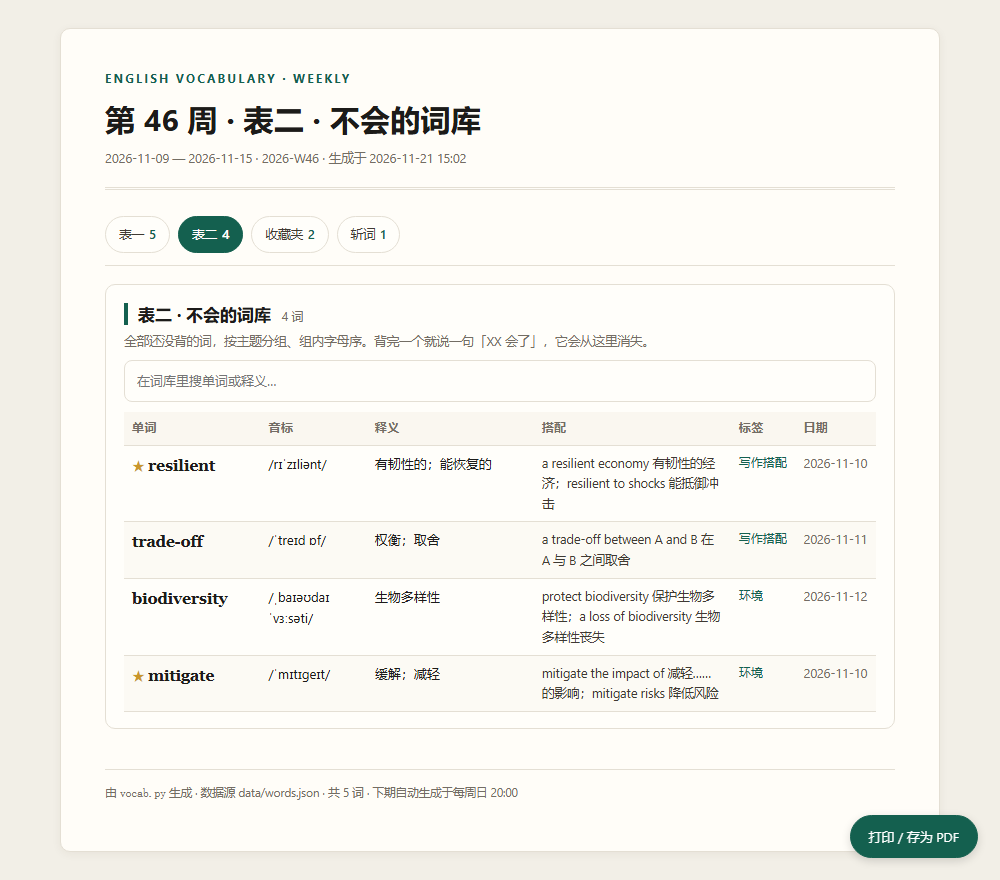
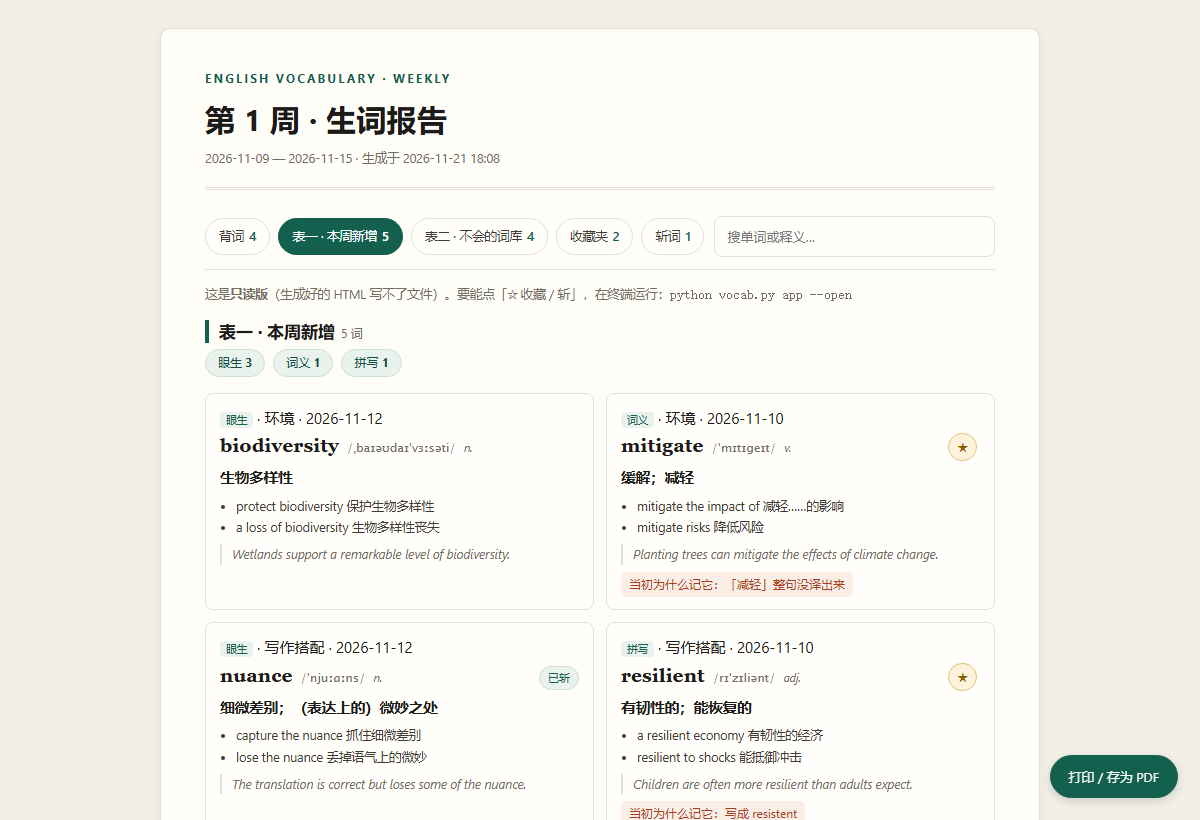
docs: 更新截图（遮挡模式 + 错因分布）；app 支持 --week 与 #深链
- preview.png：背词页，遮挡卡片，带 kind 徽标与两个按钮
- preview-report.png：表一视图，带错因分布
- 示例数据补上 kind
- app 新增 --week，页面支持 #t1 之类深链

diff --git a/vocab.py b/vocab.py
@@ -774,6 +774,10 @@ document.addEventListener('keydown', e => {
   }
 });
 
+if (location.hash) {
+  const name = location.hash.slice(1);
+  if (document.querySelector('.panel[data-panel="' + name + '"]')) show(name);
+}
 setInterval(() => { fetch('/ping').catch(() => {}); }, 60000);
 filter();
 """
@@ -1201,6 +1205,7 @@ def cmd_review(args) -> int:
     import threading
     from http.server import BaseHTTPRequestHandler, ThreadingHTTPServer
 
+    monday = parse_week(args.week) if getattr(args, "week", None) else week_monday(date.today())
     lock = threading.Lock()
     last = {"t": _time.time()}
     data = load()
@@ -1238,7 +1243,7 @@ def cmd_review(args) -> int:
             if self.path.split("?")[0] not in ("/", "/index.html"):
                 return self._send(404, b"not found", "text/plain; charset=utf-8")
             with lock:
-                page = render_app(load(), week_monday(date.today()), interactive=True)
+                page = render_app(load(), monday, interactive=True)
             return self._send(200, page.encode("utf-8"), "text/html; charset=utf-8")
 
         def do_POST(self):
@@ -1392,6 +1397,7 @@ def build_parser() -> argparse.ArgumentParser:
                         aliases=["app"])
     rv.add_argument("--port", type=int, default=8765, help="端口，默认 8765，占用则自动顺延")
     rv.add_argument("--open", action="store_true", help="启动后打开浏览器")
+    rv.add_argument("--week", help="按哪一周显示（默认本周），如 2026-W46")
     rv.add_argument("--idle", type=int, default=30,
                     help="标签页关闭后多少分钟自动退出，默认 30，0 表示不退出")
     rv.set_defaults(func=cmd_review)
